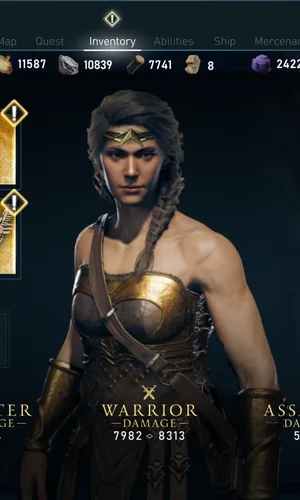
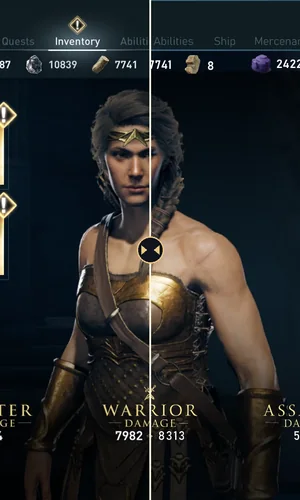
AC Odyssey UI study: reference vs recreation slider
- Viewer gets a compare media type: drag the line (mouse or touch),
  click to jump, or use arrow keys / Home / End on the handle;
  announced as a slider for screen readers
- AC project now opens on the in-game reference vs her Figma
  recreation, both at 2000px, followed by the full recreation and the
  component UI sheet; card thumbnail shows the split
- Replace the low-res recreation export with her full-size file
- Test covers drag, keys and that arrows on the slider do not page

diff --git a/src/main.js b/src/main.js
@@ -470,6 +470,55 @@ function renderMedia(item) {
     });
     return btn;
   }
+  if (item.type === 'compare') {
+    // Reference vs recreation: drag the line, click anywhere, or use the arrow keys on the handle.
+    const wrap = el('div', { class: 'cmp', style: '--pos: 50%' });
+    const before = el('img', { class: 'cmp__img', src: item.before, alt: item.beforeAlt, draggable: 'false' });
+    const after = el('img', { class: 'cmp__img cmp__after', src: item.after, alt: item.afterAlt, draggable: 'false' });
+    const handle = el('div', {
+      class: 'cmp__handle', role: 'slider', tabindex: '0',
+      'aria-label': 'Drag to compare the reference with the recreation',
+      'aria-valuemin': '0', 'aria-valuemax': '100', 'aria-valuenow': '50',
+    }, el('span', { class: 'cmp__knob', 'aria-hidden': 'true' }, icon('i-arrow'), icon('i-arrow')));
+    const tags = [
+      el('span', { class: 'cmp__tag cmp__tag--l', text: item.beforeLabel || 'Reference' }),
+      el('span', { class: 'cmp__tag cmp__tag--r', text: item.afterLabel || 'Recreation' }),
+    ];
+    wrap.append(before, after, handle, ...tags);
+    let pos = 50;
+    const set = (v) => {
+      pos = Math.max(0, Math.min(100, v));
+      wrap.style.setProperty('--pos', `${pos}%`);
+      handle.setAttribute('aria-valuenow', String(Math.round(pos)));
+    };
+    const fromEvent = (e) => {
+      const r = wrap.getBoundingClientRect();
+      set(((e.clientX - r.left) / r.width) * 100);
+    };
+    let dragging = false;
+    wrap.addEventListener('pointerdown', (e) => {
+      dragging = true;
+      wrap.setPointerCapture(e.pointerId);
+      fromEvent(e);
+      e.stopPropagation();
+    });
+    wrap.addEventListener('pointermove', (e) => dragging && fromEvent(e));
+    wrap.addEventListener('pointerup', () => { dragging = false; });
+    wrap.addEventListener('pointercancel', () => { dragging = false; });
+    wrap.addEventListener('touchstart', (e) => e.stopPropagation(), { passive: true });
+    wrap.addEventListener('touchend', (e) => e.stopPropagation());
+    handle.addEventListener('keydown', (e) => {
+      const step = e.shiftKey ? 10 : 2;
+      if (e.key === 'ArrowLeft') set(pos - step);
+      else if (e.key === 'ArrowRight') set(pos + step);
+      else if (e.key === 'Home') set(0);
+      else if (e.key === 'End') set(100);
+      else return;
+      e.preventDefault();
+      e.stopPropagation();
+    });
+    return wrap;
+  }
   return el('img', { src: item.src, alt: item.alt });
 }
 
@@ -496,8 +545,8 @@ function openProject(id) {
   viewer.classList.toggle('is-single', vProject.media.length < 2);
   vThumbs.replaceChildren(...vProject.media.map((item, n) => {
     const b = el('button', { type: 'button', class: `viewer__thumb${item.type !== 'image' ? ' is-video' : ''}`, 'aria-label': `Item ${n + 1}: ${item.caption.split('.')[0]}` },
-      el('img', { src: item.type === 'image' ? item.src : item.poster, alt: '', loading: 'lazy' }));
-    if (item.type !== 'image') b.append(el('span', { class: 'viewer__thumbplay' }, icon('i-play')));
+      el('img', { src: item.type === 'image' ? item.src : item.type === 'compare' ? item.thumb : item.poster, alt: '', loading: 'lazy' }));
+    if (item.type === 'video' || item.type === 'youtube') b.append(el('span', { class: 'viewer__thumbplay' }, icon('i-play')));
     b.addEventListener('click', () => showItem(n));
     return b;
   }));
@@ -511,7 +560,7 @@ $('.viewer__close').addEventListener('click', () => viewer.close());
 $('.viewer__nav--prev').addEventListener('click', () => showItem(vIndex - 1));
 $('.viewer__nav--next').addEventListener('click', () => showItem(vIndex + 1));
 viewer.addEventListener('keydown', (event) => {
-  if (event.target.closest('video, iframe')) return;
+  if (event.target.closest('video, iframe, .cmp__handle')) return;
   if (event.key === 'ArrowLeft') showItem(vIndex - 1);
   if (event.key === 'ArrowRight') showItem(vIndex + 1);
 });

diff --git a/src/style.css b/src/style.css
@@ -1293,6 +1293,54 @@ a.ci__main:hover { color: var(--gold-100); }
   .resume__downloads { grid-template-columns: 1fr; }
 }
 
+
+/* Reference vs recreation slider */
+.cmp {
+  position: relative;
+  width: min(100%, calc((100dvh - 230px) * 16 / 9));
+  aspect-ratio: 16 / 9;
+  overflow: hidden;
+  cursor: ew-resize;
+  touch-action: pan-y;
+  user-select: none;
+  box-shadow: 0 24px 70px rgba(0, 0, 0, .55);
+  animation: fade .45s ease both;
+}
+.cmp__img { position: absolute; inset: 0; width: 100%; height: 100%; object-fit: cover; pointer-events: none; }
+.cmp__after { clip-path: inset(0 0 0 var(--pos)); }
+.cmp__handle {
+  position: absolute; top: 0; bottom: 0; left: var(--pos);
+  width: 3px; margin-left: -1.5px;
+  background: #fff4de;
+  box-shadow: 0 0 14px rgba(236, 199, 128, .8);
+  outline: none;
+}
+.cmp__knob {
+  position: absolute; left: 50%; top: 50%;
+  display: flex; align-items: center; justify-content: center; gap: 2px;
+  width: 52px; height: 52px; border-radius: 50%;
+  transform: translate(-50%, -50%);
+  background: rgba(16, 20, 28, .92);
+  border: 2px solid var(--gold-200);
+  color: var(--gold-100);
+  font-size: 15px;
+  box-shadow: 0 6px 20px rgba(0, 0, 0, .55);
+}
+.cmp__knob svg:first-child { transform: scaleX(-1); }
+.cmp__handle:focus-visible .cmp__knob { outline: 2px solid var(--gold-100); outline-offset: 3px; }
+.cmp__tag {
+  position: absolute; bottom: 14px;
+  padding: 5px 12px;
+  background: rgba(10, 12, 16, .78);
+  border: 1px solid rgba(236, 199, 128, .5);
+  font-family: var(--f-display); font-size: 11px; letter-spacing: .16em; text-transform: uppercase;
+  color: var(--gold-100);
+  pointer-events: none;
+}
+.cmp__tag--l { left: 14px; }
+.cmp__tag--r { right: 14px; }
+@media (max-width: 640px) { .cmp { width: 100%; } .cmp__knob { width: 36px; height: 36px; font-size: 12px; } .cmp__tag { top: 8px; bottom: auto; font-size: 7.5px !important; letter-spacing: .1em; padding: 3px 6px; } .cmp__tag--l { left: 8px; } .cmp__tag--r { right: 8px; } }
+
 /* ======================================================================
    Intro
    ====================================================================== */

diff --git a/tests/site.spec.js b/tests/site.spec.js
@@ -410,7 +410,35 @@ test('UI projects open with their screens', async ({ page }) => {
   await expect(page.locator('#viewerThumbs button')).toHaveCount(4);
   await page.keyboard.press('Escape');
   await page.locator('.work[data-project="ac-ui"] .work__view').click();
-  await expect(page.locator('#viewerMedia img')).toHaveAttribute('src', /acui-recreation/);
-  await page.locator('#viewerThumbs button').nth(1).click();
+  await expect(page.locator('#viewerThumbs button')).toHaveCount(3);
+  await page.locator('#viewerThumbs button').nth(2).click();
   await expect(page.locator('#viewerMedia img')).toHaveAttribute('src', /acui-sheet/);
+});
+
+test('reference vs recreation slider moves with drag and keys', async ({ page, isMobile }) => {
+  await page.goto('/#works');
+  await page.locator('.work[data-project="ac-ui"] .work__view').click();
+  const cmp = page.locator('#viewerMedia .cmp');
+  await expect(cmp).toBeVisible();
+  await expect(cmp.locator('img.cmp__img')).toHaveCount(2);
+  for (const img of await cmp.locator('img').all()) {
+    await expect.poll(() => img.evaluate((i) => i.complete && i.naturalWidth > 0)).toBe(true);
+  }
+  const handle = cmp.locator('.cmp__handle');
+  await expect(handle).toHaveAttribute('aria-valuenow', '50');
+  const box = await cmp.boundingBox();
+  if (!isMobile) {
+    await page.mouse.move(box.x + box.width / 2, box.y + box.height / 2);
+    await page.mouse.down();
+    await page.mouse.move(box.x + box.width * 0.2, box.y + box.height / 2, { steps: 5 });
+    await page.mouse.up();
+    expect(Number(await handle.getAttribute('aria-valuenow'))).toBeLessThan(30);
+  }
+  await handle.focus();
+  await page.keyboard.press('End');
+  await expect(handle).toHaveAttribute('aria-valuenow', '100');
+  await page.keyboard.press('Shift+ArrowLeft');
+  await expect(handle).toHaveAttribute('aria-valuenow', '90');
+  // arrow keys on the slider must not page the viewer
+  await expect(page.locator('#viewerCount')).toHaveText('1 / 3');
 });

diff --git a/src/works.js b/src/works.js
@@ -82,6 +82,7 @@ export const PROJECTS = [
     hover: `${A}acui-process-thumb.webp`,
     link: { href: 'https://www.behance.net/rajnandchavan1', label: 'More on Behance', icon: 'behance' },
     media: [
+      { type: 'compare', before: `${A}acui-reference.webp`, after: `${A}acui-recreation.webp`, thumb: `${A}acui-compare.webp`, beforeAlt: 'Original in-game Assassin\'s Creed Odyssey inventory screen.', afterAlt: 'Her recreation of the inventory screen in Figma.', beforeLabel: 'Reference · in game', afterLabel: 'Recreation · Figma', caption: 'Reference vs recreation. Drag the line to compare the in-game screen with her Figma rebuild.' },
       { type: 'image', src: `${A}acui-recreation.webp`, alt: 'Recreated Assassin\'s Creed Odyssey inventory screen with Kassandra, gear slots and stats.', caption: 'Recreation. The full inventory screen rebuilt in Figma.' },
       { type: 'image', src: `${A}acui-sheet.webp`, alt: 'UI kit sheet of the recreated components: tabs, resources, item slots, badges, stats and prompts.', caption: 'UI kit. Every element split into a reusable component.' },
     ],

diff --git a/scripts/build-assets.py b/scripts/build-assets.py
@@ -284,14 +284,26 @@ def ui_projects():
     for i, name in ((1, "home"), (0, "login")):
         save_webp(shots[i], f"works/solorize-{name}.webp", 90)
 
-    # AC Odyssey UI study
-    rec = Image.open(W / "ac-ui" / "recreation.png").convert("RGB")
-    save_webp(rec, "works/acui-recreation.webp", 88)
+    # AC Odyssey UI study: reference + her recreation at full size, plus a static split image
+    ref = Image.open(W / "ac-ui" / "reference.webp").convert("RGB")
+    rec = Image.open(W / "ac-ui" / "recreation-full.webp").convert("RGB").resize(ref.size, Image.LANCZOS)
+    save_webp(ref, "works/acui-reference.webp", 86)
+    save_webp(rec, "works/acui-recreation.webp", 86)
+    split = ref.copy()
+    mid = ref.width // 2
+    split.paste(rec.crop((mid, 0, ref.width, ref.height)), (mid, 0))
+    d = ImageDraw.Draw(split)
+    d.rectangle((mid - 2, 0, mid + 1, split.height), fill=(255, 244, 222))
+    cy = split.height // 2
+    d.ellipse((mid - 30, cy - 30, mid + 30, cy + 30), fill=(16, 20, 28), outline=(236, 199, 128), width=3)
+    d.polygon([(mid - 8, cy), (mid - 20, cy - 10), (mid - 20, cy + 10)], fill=(236, 199, 128))
+    d.polygon([(mid + 8, cy), (mid + 20, cy - 10), (mid + 20, cy + 10)], fill=(236, 199, 128))
+    save_webp(split, "works/acui-compare.webp", 86)
     sheet = Image.open(W / "ac-ui" / "ui-sheet.png").convert("RGB")
     save_webp(sheet, "works/acui-sheet.webp", 88)
-    rw, rh = rec.size
+    rw, rh = split.size  # card thumb centred on the divider: reference left, recreation right
     tw = int(rh * 0.6)
-    t = rec.crop(((rw - tw) // 2, 0, (rw + tw) // 2, rh)).resize((300, 500), Image.LANCZOS)
+    t = split.crop(((rw - tw) // 2, 0, (rw + tw) // 2, rh)).resize((300, 500), Image.LANCZOS)
     save_webp(t, "works/acui-thumb.webp", 84)
     sw2, sh2 = sheet.size  # inventory slot rows, framed portrait for the hover state
     t2 = sheet.crop((40, 370, 40 + 420, 370 + 700)).resize((300, 500), Image.LANCZOS)
